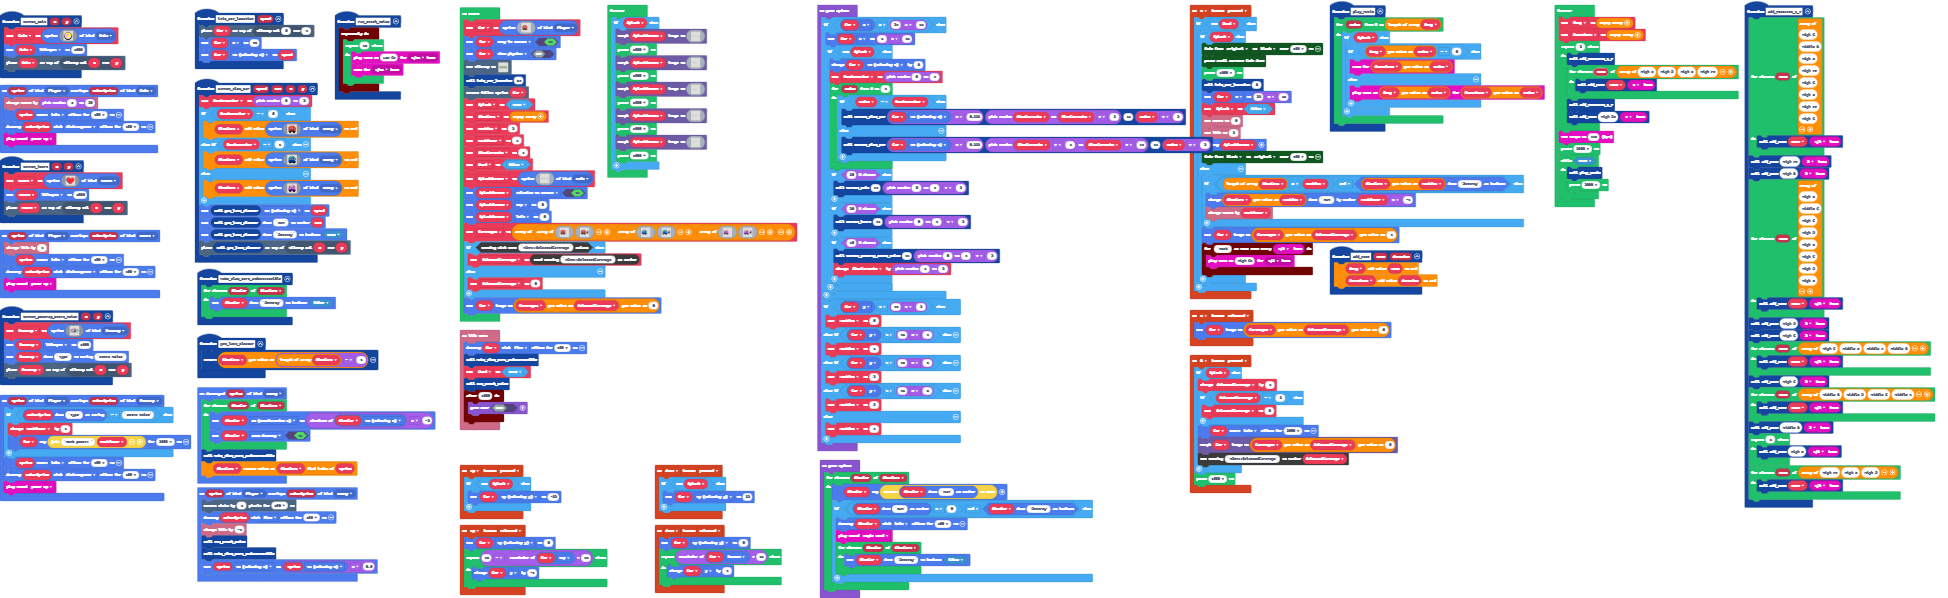
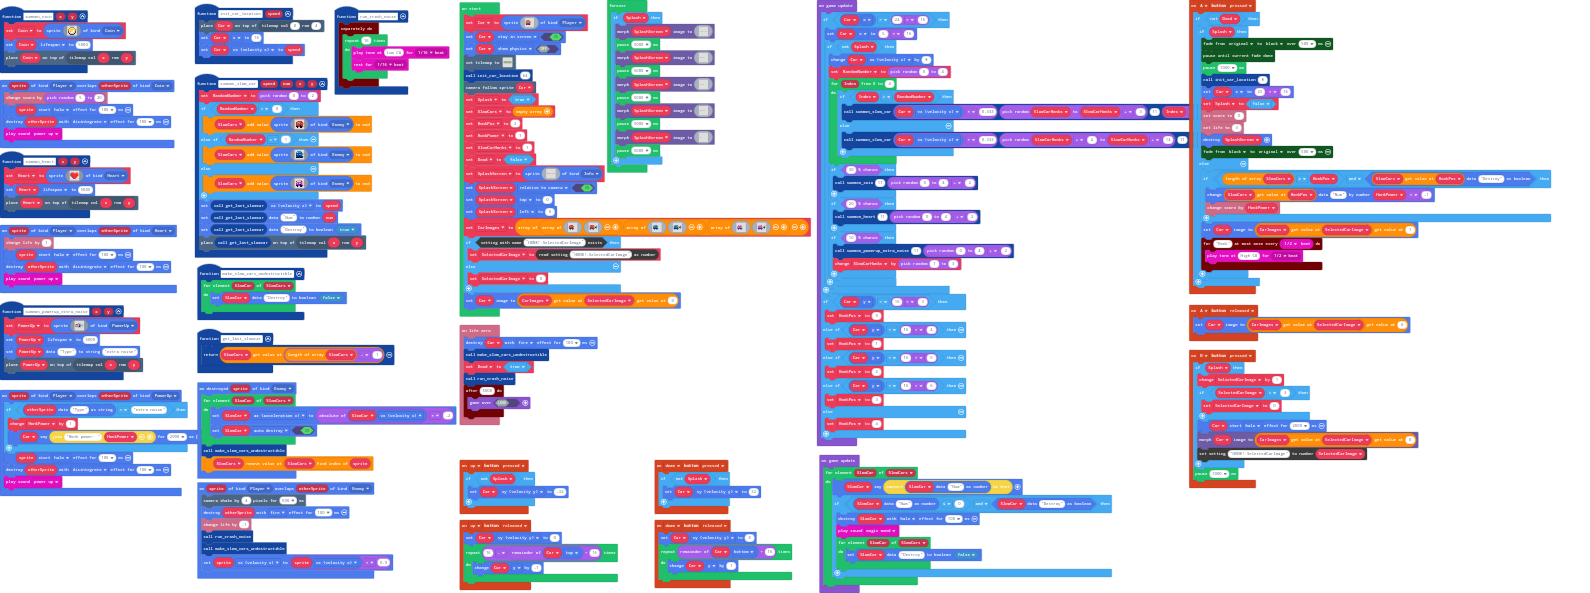
Removed music

diff --git a/main.ts b/main.ts
@@ -151,17 +151,6 @@ sprites.onOverlap(SpriteKind.Player, SpriteKind.Heart, function (sprite, otherSp
     otherSprite.destroy(effects.disintegrate, 100)
     music.powerUp.play()
 })
-function play_music () {
-    for (let Index = 0; Index <= Song.length; Index++) {
-        if (Splash) {
-            if (Song[Index] == 0) {
-                music.rest(Durations[Index])
-            } else {
-                music.playTone(Song[Index], Durations[Index])
-            }
-        }
-    }
-}
 function summon_heart (x: number, y: number) {
     Heart = sprites.create(img`
         . c 2 2 . . 2 2 . 
@@ -224,54 +213,6 @@ info.onLifeZero(function () {
         game.over(false)
     })
 })
-function add_measures_1_7 () {
-    for (let Note2 of [
-    784,
-    494,
-    659,
-    740,
-    784,
-    659,
-    740,
-    784
-    ]) {
-        add_note(Note2, music.beat(BeatFraction.Half))
-    }
-    add_note(740, music.beat(BeatFraction.Double))
-    add_note(988, music.beat(BeatFraction.Double))
-    for (let Note2 of [
-    659,
-    392,
-    523,
-    587,
-    659,
-    523,
-    587,
-    659
-    ]) {
-        add_note(Note2, music.beat(BeatFraction.Half))
-    }
-    add_note(587, music.beat(BeatFraction.Double))
-    add_note(784, music.beat(BeatFraction.Double))
-    for (let Note2 of [523, 330, 440, 494]) {
-        add_note(Note2, music.beat(BeatFraction.Half))
-    }
-    add_note(523, music.beat(BeatFraction.Double))
-    for (let Note2 of [494, 294, 392, 440]) {
-        add_note(Note2, music.beat(BeatFraction.Half))
-    }
-    add_note(494, music.beat(BeatFraction.Double))
-    for (let index = 0; index < 5; index++) {
-        add_note(659, music.beat(BeatFraction.Half))
-    }
-    for (let Note2 of [740, 659, 587]) {
-        add_note(Note2, music.beat(BeatFraction.Half))
-    }
-}
-function add_note (note: number, duration: number) {
-    Song.push(note)
-    Durations.push(duration)
-}
 function summon_coin (x: number, y: number) {
     Coin = sprites.create(img`
         . . b b b b . . 
@@ -310,8 +251,6 @@ sprites.onOverlap(SpriteKind.Player, SpriteKind.Enemy, function (sprite, otherSp
 let Coin: Sprite = null
 let PowerUp: Sprite = null
 let Heart: Sprite = null
-let Durations: number[] = []
-let Song: number[] = []
 let RandomNumber = 0
 let SelectedCarImage = 0
 let CarImages: Image[][] = []
@@ -637,23 +576,5 @@ forever(function () {
             ................................................................................................................................................................
             `)
         pause(5000)
-    }
-})
-forever(function () {
-    Song = []
-    Durations = []
-    for (let index = 0; index < 2; index++) {
-        add_measures_1_7()
-        for (let Note2 of [659, 587, 659, 740]) {
-            add_note(Note2, music.beat(BeatFraction.Whole))
-        }
-        add_measures_1_7()
-        add_note(622, music.beat(BeatFraction.Breve))
-    }
-    music.setTempo(145)
-    pause(2000)
-    while (true) {
-        play_music()
-        pause(2000)
     }
 })
